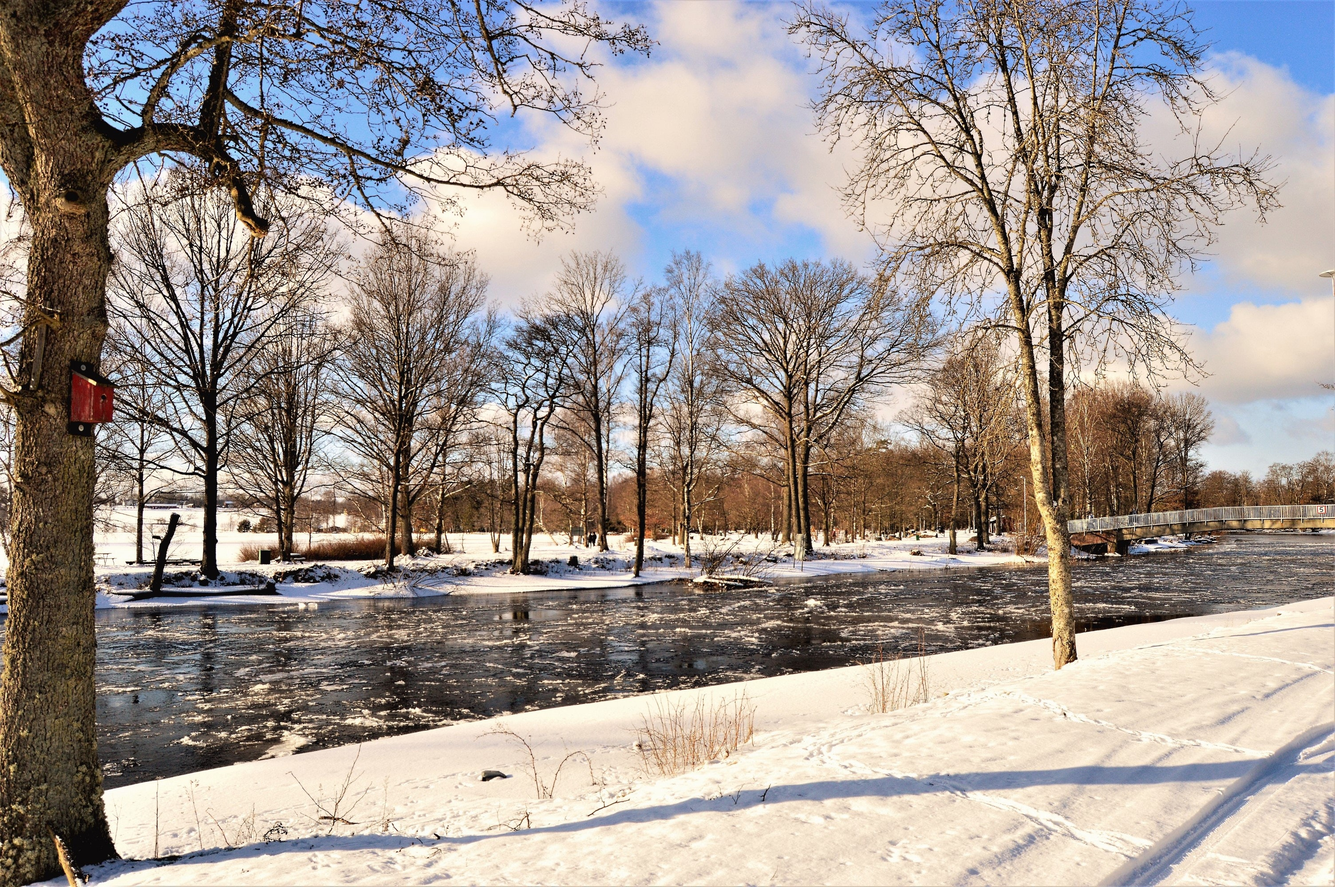
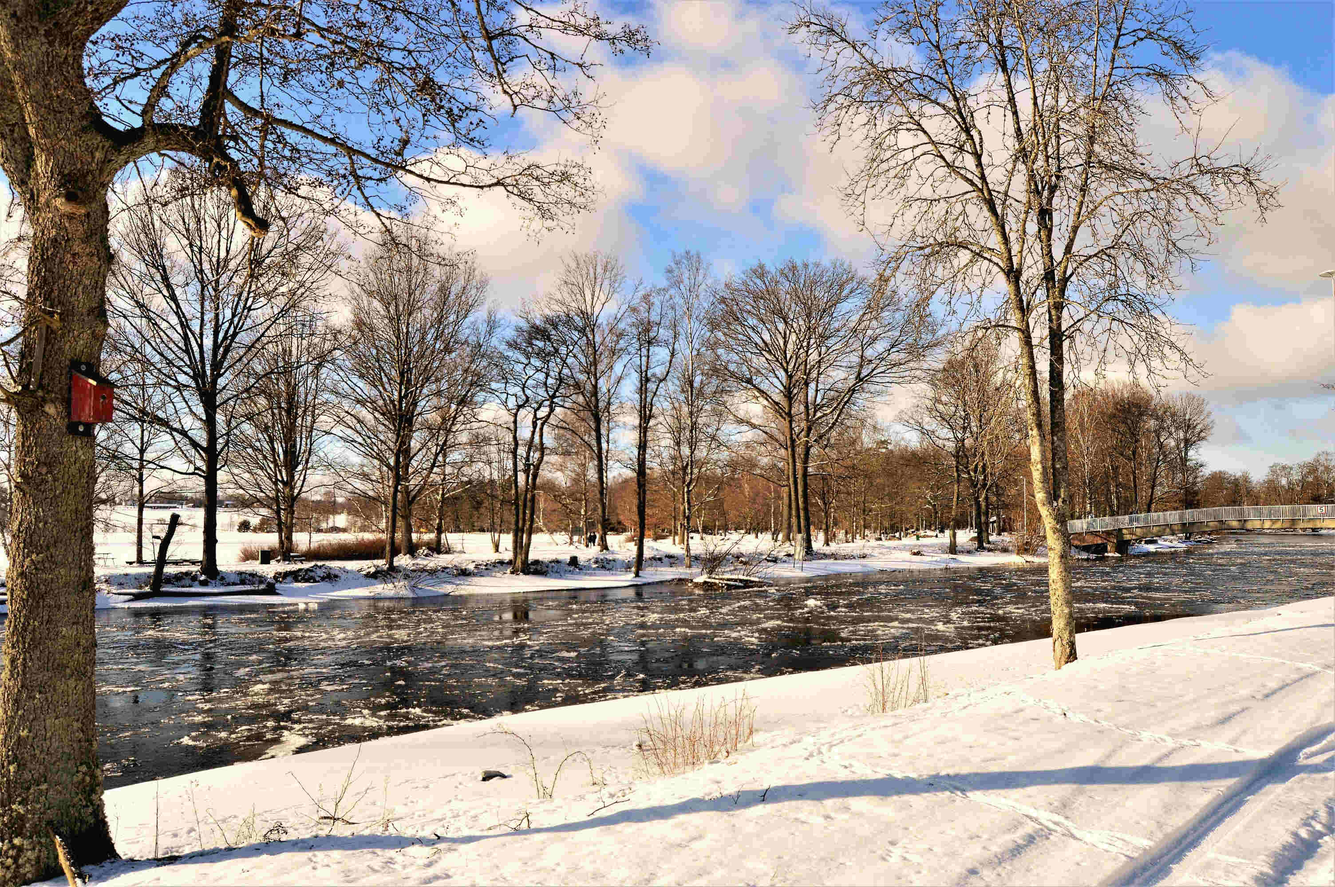
updates with new hero image

diff --git a/Lesson6/preston-6.html b/Lesson6/preston-6.html
@@ -39,7 +39,14 @@
     <main>
            <h2>PRESTON IDAHO</h2>
            <div class="herodiv">
-           <div class="cold"><img src="images/cold.jpg" alt="photo of street"/>
+           <div class="cold">
+               <picture>
+                    <source srcset="images/heromedium.jpg" media="(min-width: 620px)
+                    and (max-width: 950px)">
+                    <source srcset="images/herolarge.jpg" media="(min-width: 951px)">
+                <img src="images/herosmall.jpg" alt="Hero sample photo of sunshine">
+
+               </picture>
             </div>
                 <section class="weathersummary">
                     <h3><u>Weather Summary</u></h3>
@@ -101,7 +108,7 @@
         </div>
         <section>
             <div class="contact">
-                <div class="map"><img src="images/map.PNG" alt="photo of street"/>
+                <div class="map"><img src="images/map.jpg" alt="photo of street"/>
                 </div>
             <h3>Contact Information</h3>
             <div class="contactinfo">

diff --git a/Lesson6/js/today.js b/Lesson6/js/today.js
@@ -1,7 +1,7 @@
 var daynames =[
     "Sunday",
     "Monday",
-    "Tuesay",
+    "Tuesday",
     "Wednesday",
     "Thursday",
     "Friday",
